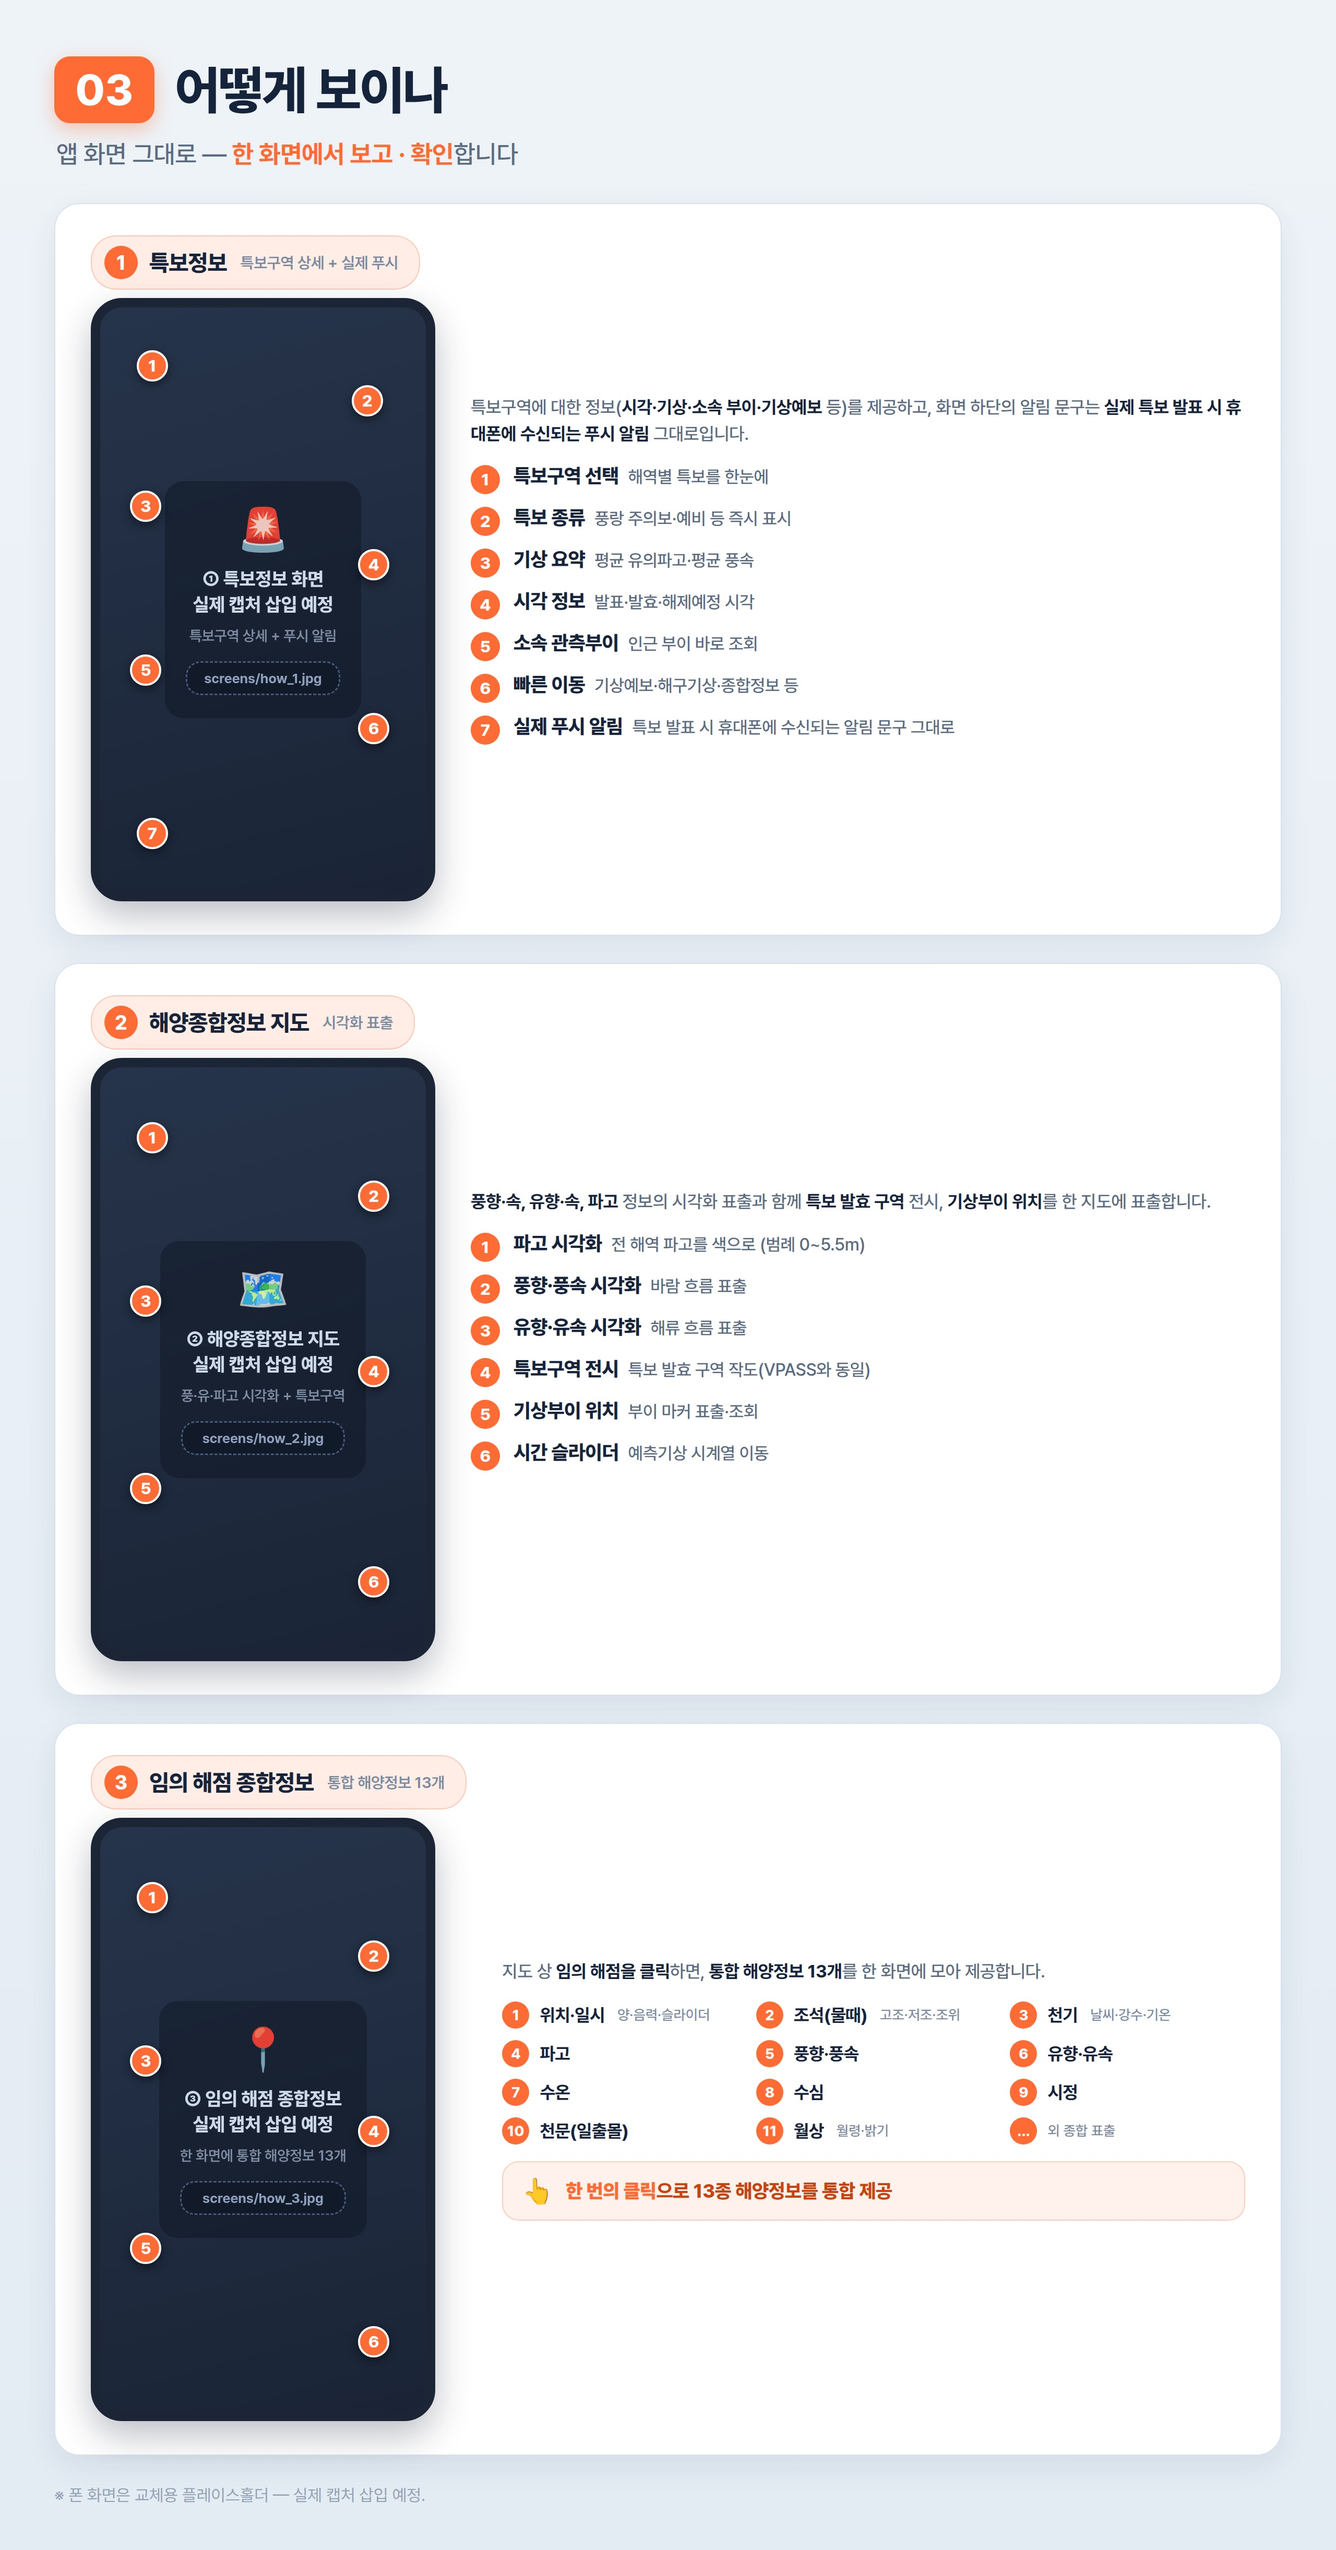
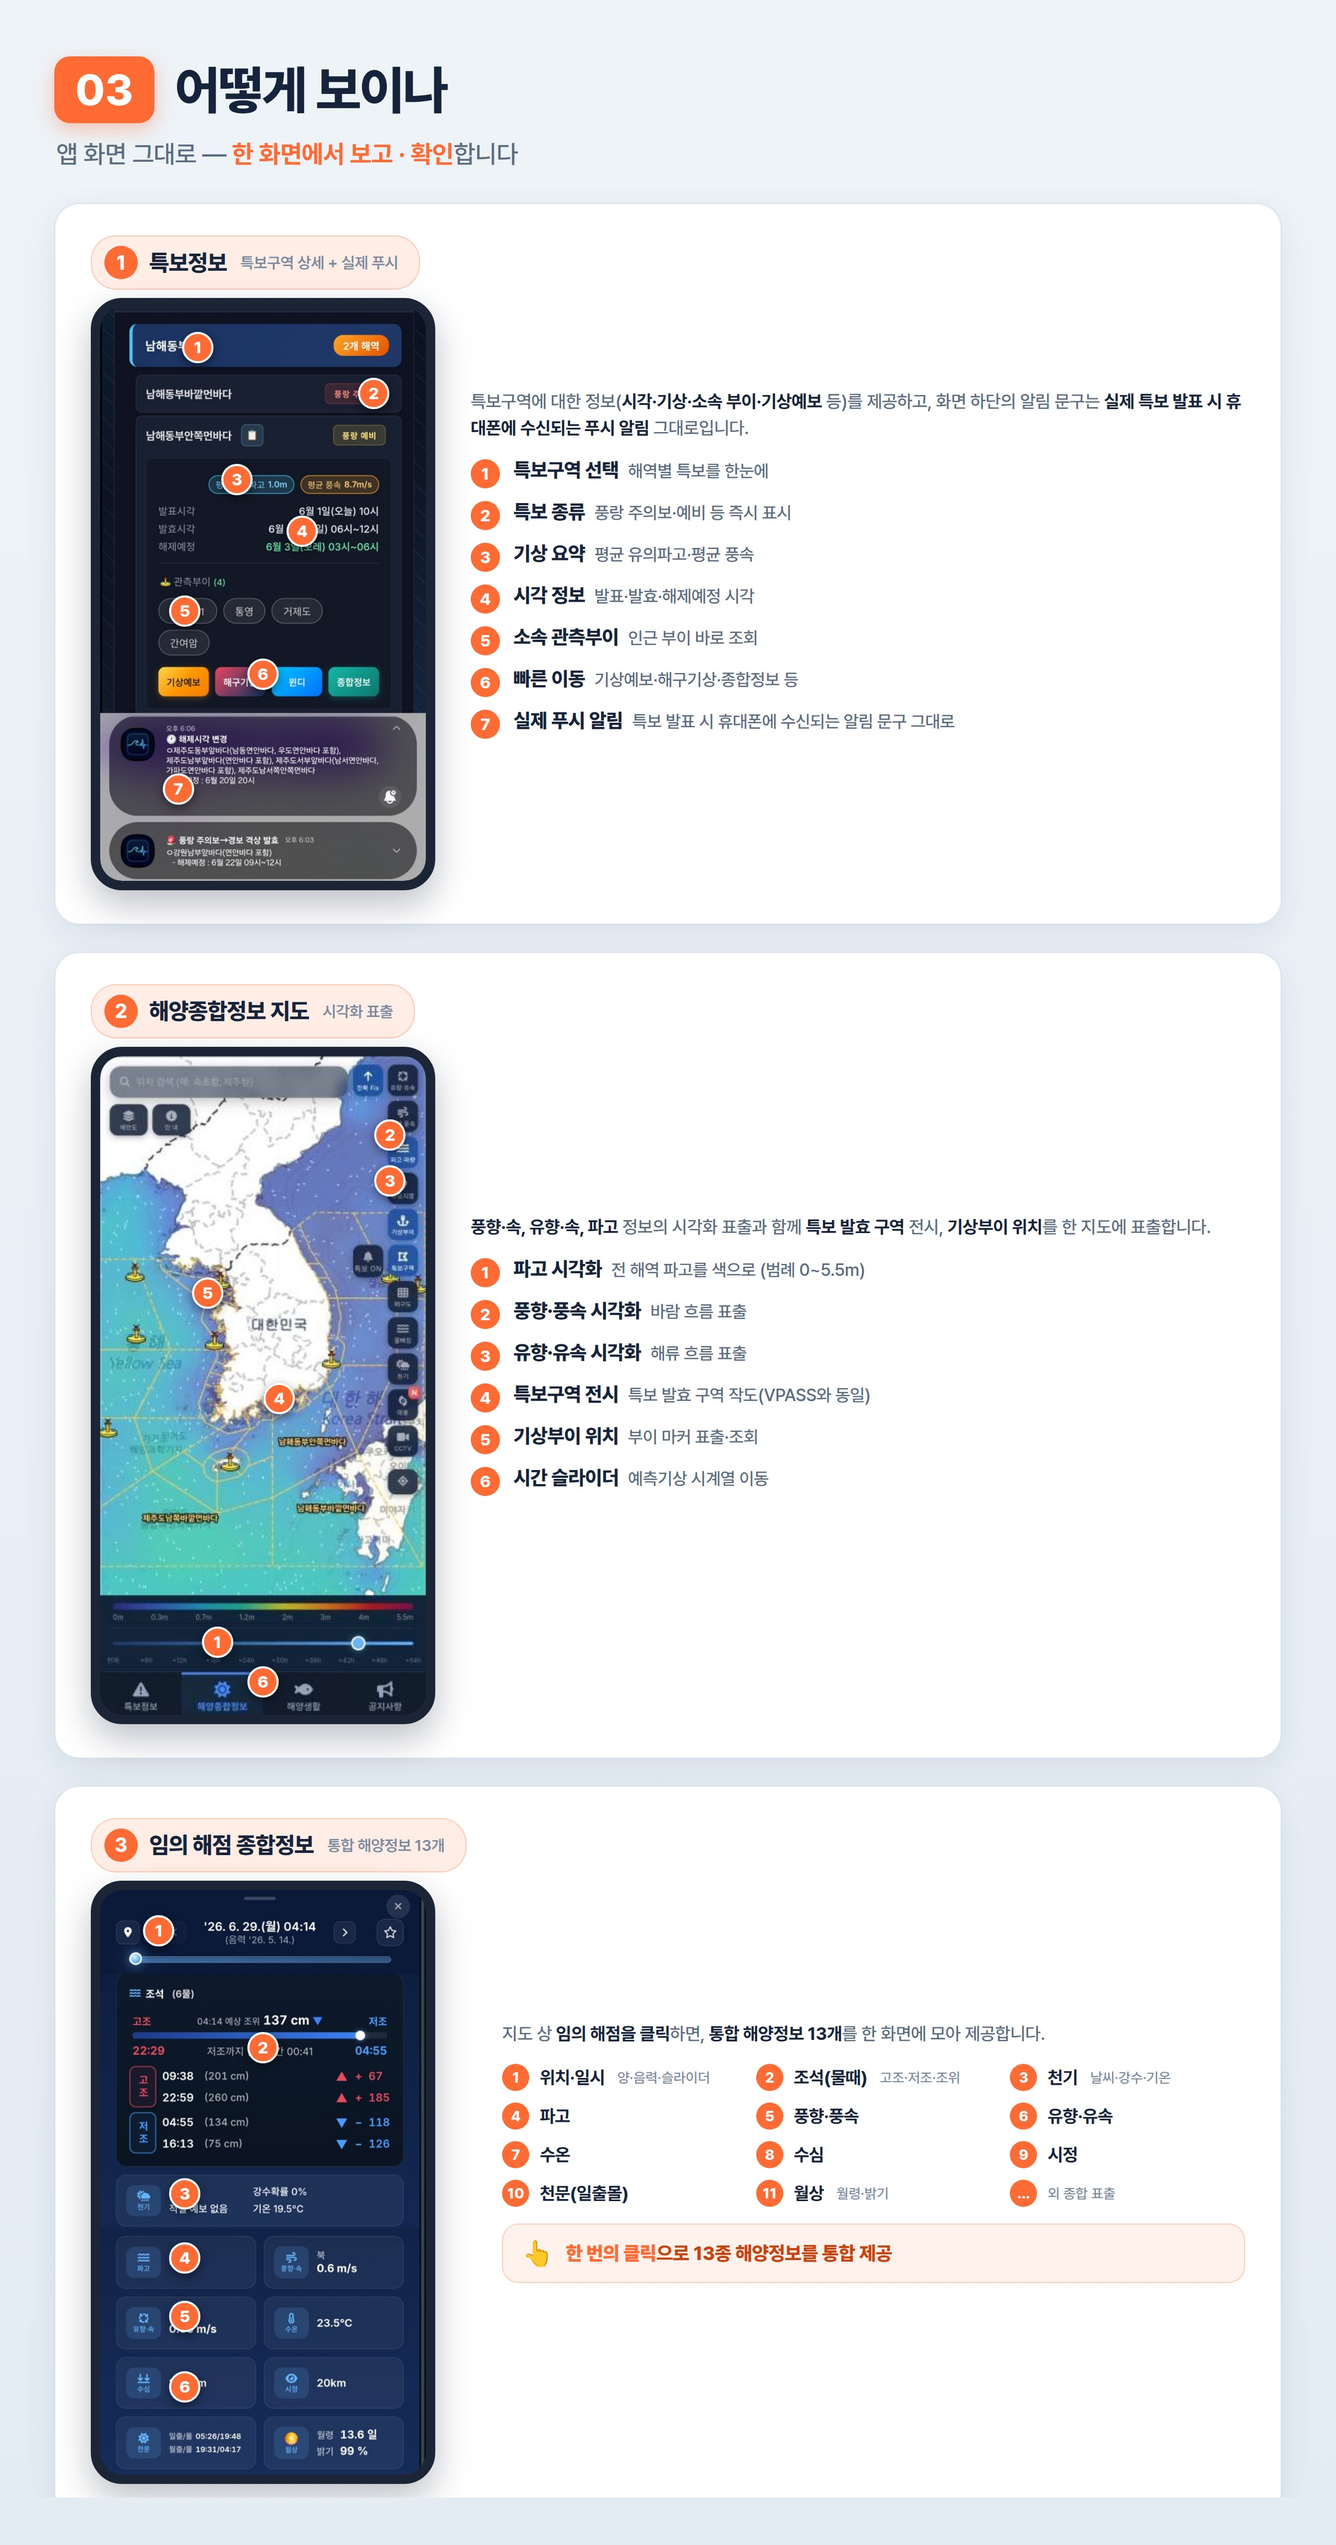
feat(formboard): 03 실제 캡처 적용 + 04·05 분리
- 03 어떻게 보이나: 플레이스홀더 → 실제 앱 캡처 3장(특보정보/지도/임의해점) 적용, 마커 위치 실제 UI에 맞춰 조정
- 04 그간의 성과 / 05 앞으로는: 통합본(formboard_future) → 별도 파일로 분리, 04에서 현장의 목소리 제거

Claude-Session: https://claude.ai/code/session_01NPSXCfcq7AeQ1foaBkT7hE

diff --git a/keynote_seagnal/formboard_how.html b/keynote_seagnal/formboard_how.html
@@ -68,21 +68,14 @@ html,body{font-family:'Pretendard',sans-serif;-webkit-font-smoothing:antialiased
      <div class="chip"><span class="cn">1</span><span class="ct">특보정보</span><span class="cs">특보구역 상세 + 실제 푸시</span></div>
      <!-- 실제 이미지로 교체: <img src="screens/how_1.jpg" style="display:block;width:100%;border-radius:21px;"> -->
      <div class="phone">
-       <div class="scr" style="height:560px;">
-         <div class="core">
-           <div class="ico">🚨</div>
-           <div class="lb">① 특보정보 화면<br>실제 캡처 삽입 예정</div>
-           <div class="sb">특보구역 상세 + 푸시 알림</div>
-           <div class="dash">screens/how_1.jpg</div>
-         </div>
-       </div>
-       <span class="mk" style="left:16%;top:10%;">1</span>
-       <span class="mk" style="left:82%;top:16%;">2</span>
-       <span class="mk" style="left:14%;top:34%;">3</span>
-       <span class="mk" style="left:84%;top:44%;">4</span>
-       <span class="mk" style="left:14%;top:62%;">5</span>
-       <span class="mk" style="left:84%;top:72%;">6</span>
-       <span class="mk" style="left:16%;top:90%;">7</span>
+       <img src="screens/how_1.jpg" style="display:block;width:100%;border-radius:21px;">
+       <span class="mk" style="left:30%;top:7%;">1</span>
+       <span class="mk" style="left:84%;top:15%;">2</span>
+       <span class="mk" style="left:42%;top:30%;">3</span>
+       <span class="mk" style="left:62%;top:39%;">4</span>
+       <span class="mk" style="left:26%;top:53%;">5</span>
+       <span class="mk" style="left:50%;top:64%;">6</span>
+       <span class="mk" style="left:24%;top:84%;">7</span>
      </div>
    </div>
    <div class="right">
@@ -105,20 +98,13 @@ html,body{font-family:'Pretendard',sans-serif;-webkit-font-smoothing:antialiased
      <div class="chip"><span class="cn">2</span><span class="ct">해양종합정보 지도</span><span class="cs">시각화 표출</span></div>
      <!-- 실제 이미지로 교체: <img src="screens/how_2.jpg" style="display:block;width:100%;border-radius:21px;"> -->
      <div class="phone">
-       <div class="scr" style="height:560px;">
-         <div class="core">
-           <div class="ico">🗺</div>
-           <div class="lb">② 해양종합정보 지도<br>실제 캡처 삽입 예정</div>
-           <div class="sb">풍·유·파고 시각화 + 특보구역</div>
-           <div class="dash">screens/how_2.jpg</div>
-         </div>
-       </div>
-       <span class="mk" style="left:16%;top:12%;">1</span>
-       <span class="mk" style="left:84%;top:22%;">2</span>
-       <span class="mk" style="left:14%;top:40%;">3</span>
-       <span class="mk" style="left:84%;top:52%;">4</span>
-       <span class="mk" style="left:14%;top:72%;">5</span>
-       <span class="mk" style="left:84%;top:88%;">6</span>
+       <img src="screens/how_2.jpg" style="display:block;width:100%;border-radius:21px;">
+       <span class="mk" style="left:36%;top:89%;">1</span>
+       <span class="mk" style="left:89%;top:12%;">2</span>
+       <span class="mk" style="left:89%;top:19%;">3</span>
+       <span class="mk" style="left:55%;top:52%;">4</span>
+       <span class="mk" style="left:33%;top:36%;">5</span>
+       <span class="mk" style="left:50%;top:95%;">6</span>
      </div>
    </div>
    <div class="right">
@@ -140,20 +126,13 @@ html,body{font-family:'Pretendard',sans-serif;-webkit-font-smoothing:antialiased
      <div class="chip"><span class="cn">3</span><span class="ct">임의 해점 종합정보</span><span class="cs">통합 해양정보 13개</span></div>
      <!-- 실제 이미지로 교체: <img src="screens/how_3.jpg" style="display:block;width:100%;border-radius:21px;"> -->
      <div class="phone">
-       <div class="scr" style="height:560px;">
-         <div class="core">
-           <div class="ico">📍</div>
-           <div class="lb">③ 임의 해점 종합정보<br>실제 캡처 삽입 예정</div>
-           <div class="sb">한 화면에 통합 해양정보 13개</div>
-           <div class="dash">screens/how_3.jpg</div>
-         </div>
-       </div>
-       <span class="mk" style="left:16%;top:12%;">1</span>
-       <span class="mk" style="left:84%;top:22%;">2</span>
-       <span class="mk" style="left:14%;top:40%;">3</span>
-       <span class="mk" style="left:84%;top:52%;">4</span>
-       <span class="mk" style="left:14%;top:72%;">5</span>
-       <span class="mk" style="left:84%;top:88%;">6</span>
+       <img src="screens/how_3.jpg" style="display:block;width:100%;border-radius:21px;">
+       <span class="mk" style="left:18%;top:7%;">1</span>
+       <span class="mk" style="left:50%;top:27%;">2</span>
+       <span class="mk" style="left:26%;top:52%;">3</span>
+       <span class="mk" style="left:26%;top:63%;">4</span>
+       <span class="mk" style="left:26%;top:73%;">5</span>
+       <span class="mk" style="left:26%;top:85%;">6</span>
      </div>
    </div>
    <div class="right">
@@ -176,6 +155,6 @@ html,body{font-family:'Pretendard',sans-serif;-webkit-font-smoothing:antialiased
    </div>
  </div>
 
- <div class="foot">※ 폰 화면은 교체용 플레이스홀더 — 실제 캡처 삽입 예정.</div>
+ <div class="foot">※ 실제 앱 화면 캡처 기준 — 번호 마커는 우측 설명과 대응.</div>
 </div>
 </body></html>

diff --git a/keynote_seagnal/formboard_05.html b/keynote_seagnal/formboard_05.html
@@ -1,0 +1,59 @@
+<!DOCTYPE html><html lang="ko"><head><meta charset="utf-8">
+<link href="https://cdn.jsdelivr.net/gh/orioncactus/pretendard@v1.3.9/dist/web/static/pretendard.min.css" rel="stylesheet">
+<style>
+*{box-sizing:border-box;margin:0;padding:0;}
+html,body{font-family:'Pretendard',sans-serif;-webkit-font-smoothing:antialiased;background:#e3ebf3;}
+#card{width:1280px;background:linear-gradient(180deg,#eef3f8,#e3ebf3);padding:54px 52px 50px;}
+.h{display:flex;align-items:center;gap:20px;}
+.h .no{background:#FF6B35;color:#fff;font-weight:800;font-size:42px;border-radius:15px;padding:7px 20px;box-shadow:0 6px 18px rgba(255,107,53,.35);}
+.h .t{color:#15243a;font-size:50px;font-weight:800;letter-spacing:-.03em;}
+.sub{color:#5b6b80;font-size:24px;font-weight:500;margin:14px 0 32px 2px;letter-spacing:-.01em;}
+.sub b{color:#FF6B35;font-weight:700;}
+
+.rstack{display:flex;flex-direction:column;gap:20px;}
+.rphase{display:flex;align-items:stretch;border-radius:18px;overflow:hidden;border:1px solid #d8e2ee;background:#fff;box-shadow:0 10px 26px rgba(30,50,80,.07);}
+.rbadge{flex:0 0 200px;background:linear-gradient(150deg,rgba(255,107,53,.17),rgba(255,107,53,.05));border-right:1px solid rgba(255,107,53,.25);display:flex;flex-direction:column;align-items:center;justify-content:center;padding:22px;}
+.rbadge .term{color:#15243a;font-size:38px;font-weight:800;letter-spacing:-.025em;line-height:1;}
+.rbadge .per{color:#8a98ab;font-size:18px;font-weight:600;margin-top:10px;}
+.rbody{flex:1;padding:24px 30px;display:grid;grid-template-columns:1fr 1fr;column-gap:34px;row-gap:13px;align-content:center;}
+.ritem{position:relative;padding-left:22px;color:#5b6b80;font-size:22px;font-weight:500;line-height:1.4;letter-spacing:-.01em;}
+.ritem::before{content:"";position:absolute;left:2px;top:11px;width:8px;height:8px;border-radius:50%;background:#FF6B35;}
+.ritem b{color:#15243a;font-weight:700;}
+.ritem .done{display:inline-block;margin-left:7px;padding:1px 9px;border-radius:10px;font-size:15px;font-weight:700;color:#1f9d57;background:rgba(31,157,87,.1);border:1px solid rgba(31,157,87,.3);vertical-align:2px;}
+.foot{color:#93a2b5;font-size:16px;line-height:1.5;margin-top:24px;}
+</style></head><body>
+<div id="card">
+ <div class="h"><span class="no">05</span><span class="t">앞으로는</span></div>
+ <div class="sub">시범 운영 성과를 바탕으로 <b>단계적 고도화</b> — 묻기도 전에 위험을 알려주는 능동형 해양안전 AI로</div>
+
+ <div class="rstack">
+   <div class="rphase">
+     <div class="rbadge"><div class="term">단기</div><div class="per">~ 2026</div></div>
+     <div class="rbody">
+       <div class="ritem">위치기반 태풍·특보 알림 <span class="done">완료</span></div>
+       <div class="ritem"><b>AI 특보 예측</b></div>
+       <div class="ritem">iOS 출시</div>
+       <div class="ritem">RAG 1단계 — 검색 정밀화</div>
+     </div>
+   </div>
+   <div class="rphase">
+     <div class="rbadge"><div class="term">중기</div><div class="per">2027</div></div>
+     <div class="rbody">
+       <div class="ritem"><b>직군 지식그래프·온톨로지</b></div>
+       <div class="ritem">멀티홉 추론 — 복합 질의 응답</div>
+       <div class="ritem">다국어 음성(TTS) 안내</div>
+     </div>
+   </div>
+   <div class="rphase">
+     <div class="rbadge"><div class="term">장기</div><div class="per">2028 ~</div></div>
+     <div class="rbody">
+       <div class="ritem">조난 표류 예측 · 센서 연동 <b>자동 SOS</b></div>
+       <div class="ritem">GraphRAG <b>해양안전 의사결정 플랫폼</b></div>
+       <div class="ritem">파출소·상황실·구조 현장으로 확장</div>
+     </div>
+   </div>
+ </div>
+
+ <div class="foot">※ 추진계획은 시기별 구현 방향이며 환경에 따라 조정될 수 있음. 본 안은 콘텐츠 시안.</div>
+</div>
+</body></html>

diff --git a/keynote_seagnal/formboard_04.html b/keynote_seagnal/formboard_04.html
@@ -1,0 +1,62 @@
+<!DOCTYPE html><html lang="ko"><head><meta charset="utf-8">
+<link href="https://cdn.jsdelivr.net/gh/orioncactus/pretendard@v1.3.9/dist/web/static/pretendard.min.css" rel="stylesheet">
+<style>
+*{box-sizing:border-box;margin:0;padding:0;}
+html,body{font-family:'Pretendard',sans-serif;-webkit-font-smoothing:antialiased;background:#e3ebf3;}
+#card{width:1280px;background:linear-gradient(180deg,#eef3f8,#e3ebf3);padding:54px 52px 50px;}
+.h{display:flex;align-items:center;gap:20px;}
+.h .no{background:#FF6B35;color:#fff;font-weight:800;font-size:42px;border-radius:15px;padding:7px 20px;box-shadow:0 6px 18px rgba(255,107,53,.35);}
+.h .t{color:#15243a;font-size:50px;font-weight:800;letter-spacing:-.03em;}
+.sub{color:#5b6b80;font-size:24px;font-weight:500;margin:14px 0 32px 2px;letter-spacing:-.01em;}
+.sub b{color:#FF6B35;font-weight:700;}
+.cardbox{background:#fff;border-radius:22px;box-shadow:0 10px 30px rgba(30,50,80,.08);border:1px solid #d8e2ee;}
+
+.mrow{display:flex;gap:22px;}
+.mcard{flex:1;padding:34px 28px 30px;display:flex;flex-direction:column;min-height:230px;}
+.mcard .big{color:#FF6B35;font-size:64px;font-weight:800;letter-spacing:-.04em;line-height:1;font-variant-numeric:tabular-nums;display:flex;align-items:baseline;}
+.mcard .big .u{color:#15243a;font-size:30px;font-weight:700;margin-left:5px;letter-spacing:-.02em;}
+.mcard .lbl{color:#15243a;font-size:26px;font-weight:800;margin-top:20px;letter-spacing:-.02em;}
+.mcard .note{color:#93a2b5;font-size:17px;font-weight:500;margin-top:auto;padding-top:14px;letter-spacing:-.01em;line-height:1.4;}
+
+.impact{display:flex;align-items:center;gap:24px;margin-top:24px;padding:28px 34px;border:1px solid rgba(255,107,53,.3);border-radius:20px;background:linear-gradient(150deg,rgba(255,107,53,.1),rgba(255,107,53,.02));}
+.impact .ic{flex:0 0 70px;height:70px;border-radius:18px;background:rgba(255,107,53,.14);display:flex;align-items:center;justify-content:center;font-size:38px;}
+.impact .tx{color:#1f3047;font-size:29px;font-weight:600;line-height:1.45;letter-spacing:-.015em;}
+.impact .tx b{color:#15243a;font-weight:800;}
+.impact .tx .o{color:#FF6B35;font-weight:800;}
+.foot{color:#93a2b5;font-size:16px;line-height:1.5;margin-top:22px;}
+</style></head><body>
+<div id="card">
+ <div class="h"><span class="no">04</span><span class="t">그간의 성과</span></div>
+ <div class="sub"><b>2025. 3. 30. 출시</b> 후 실서비스 운영 중 — 기획이 아니라 <b>현장에서 검증된 지표</b></div>
+
+ <div class="mrow">
+   <div class="cardbox mcard">
+     <div class="big">1.5<span class="u">만+</span></div>
+     <div class="lbl">누적 이용자</div>
+     <div class="note">웹 포함 누적</div>
+   </div>
+   <div class="cardbox mcard">
+     <div class="big">1,351<span class="u">명</span></div>
+     <div class="lbl">안드로이드 앱 설치</div>
+     <div class="note">해양경찰 자유게시판 홍보 2회</div>
+   </div>
+   <div class="cardbox mcard">
+     <div class="big">24.8<span class="u">만+</span></div>
+     <div class="lbl">특보 알림 발송</div>
+     <div class="note">발표·발효·해제 즉시 통지</div>
+   </div>
+   <div class="cardbox mcard">
+     <div class="big">1.1<span class="u">만+</span></div>
+     <div class="lbl">해양 정보 제공</div>
+     <div class="note">최근 1개월 (5. 27.~)</div>
+   </div>
+ </div>
+
+ <div class="impact">
+   <div class="ic">🛟</div>
+   <div class="tx">기획이 아닌 <b>이미 검증된 서비스</b> — 민간앱 의존을 줄이는 <span class="o">국산 공공 대안</span>으로 운영 중</div>
+ </div>
+
+ <div class="foot">※ 운영 실적은 Google Play Console·서버 집계 기준(2025. 3. 30.~). 본 안은 콘텐츠 시안.</div>
+</div>
+</body></html>
